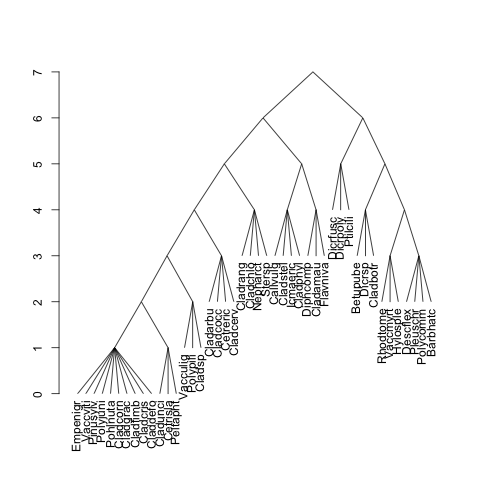
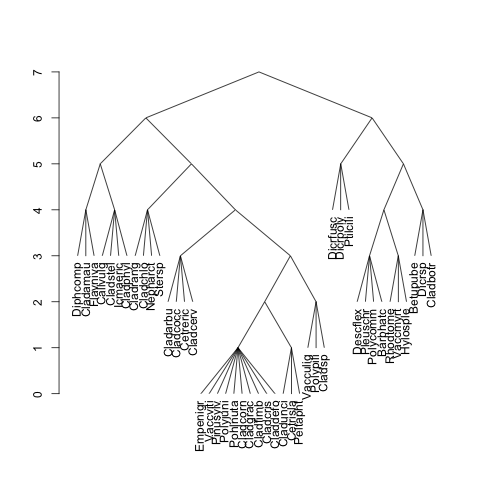
real(4)/real(8) conversion fix 26e28b9 changed ordering of data

diff --git a/README.md b/README.md
@@ -96,21 +96,21 @@ Use `summary` to see the classification:
 > summary(tw)
 1) eig=0.179:  -Cladrang5 +Pleuschr4 < 1
   2) eig=0.147:  +Callvulg2 +Pleuschr3 < 2
-    4) eig=0.163:  +Cladarbu3 < 1
-      8) N=4: 2 9 12 10 
-      9) eig=0.182:  -Cetrisla1 < 0
-        18) N=1: 4 
-        19) eig=0.169:  +Callvulg1 < 1
-          38) N=2: 7 5 
-          39) N=3: 18 6 3 
+    4) eig=0.163:  -Cladarbu3 < 0
+      8) eig=0.182:  -Cetrisla1 < 0
+        16) N=1: 4 
+        17) eig=0.169:  +Callvulg1 < 1
+          34) N=2: 7 5 
+          35) N=3: 18 6 3 
+      9) N=4: 2 9 12 10 
     5) N=3: 13 14 11 
-  3) eig=0.203:  +Cetreric1 +Cladarbu2 -Cladstel2 < 1
-    6) N=4: 27 19 28 21 
-    7) eig=0.161:  -Dicrsp2 < 0
-      14) N=2: 24 25 
-      15) eig=0.206:  +Callvulg1 < 1
-        30) N=1: 23 
-        31) N=4: 15 22 16 20
+  3) eig=0.203:  -Cetreric1 -Cladarbu2 +Cladstel2 < 0
+    6) eig=0.161:  +Dicrsp2 < 1
+      12) eig=0.206:  +Callvulg1 < 1
+        24) N=1: 23 
+        25) N=4: 15 22 16 20 
+      13) N=2: 24 25 
+    7) N=4: 27 19 28 21 
 ```
 `twinspan` is divisive: it splits data into two parts at each step, and these steps are
 described here. The splits are based on the first correspondence analysis axis of the
@@ -131,18 +131,18 @@ the names of the members (in this case the names are numeric).
 You can extract the classification of each quadrat with `cut`:
 ```r
 > cut(tw)
- [1] 39 31 14  6 30  6 31 31  6  5  5 31 14 38 38 39 39 18  8  8  8  8  5  6
+ [1] 35 25 13  7 24  7 25 25  7  5  5 25 13 34 34 35 35 16  9  9  9  9  5  7
 > cut(tw, level=2) # use classification at second level
- [1] 4 7 7 6 7 6 7 7 6 5 5 7 7 4 4 4 4 4 4 4 4 4 5 6
+ [1] 4 6 6 7 6 7 6 6 7 5 5 6 6 4 4 4 4 4 4 4 4 4 5 7
 ```
 You can also predict the membership of quadrats based on the indicator pseudospecies
 and threshold score. This can also be done with argument `newdata` using data set that
 contains same species, but is not used in developing the classification.
 ```r
 > predict(tw, level=2)
- [1] 4 7 7 6 7 6 7 7 6 5 5 7 7 4 4 4 4 4 4 4 4 4 5 4
+ [1] 4 6 6 7 6 7 6 6 7 5 5 6 6 4 4 4 4 4 4 4 4 4 5 4
 ```
-Please note that the last quadrat was classified to second-level class 6, but it is
+Please note that the last quadrat was classified to second-level class 7, but it is
 predicted to be in class 4. This can happen because TWINSPAN classification is based
 on the polished ordination, and the indicator pseudospecies only *indicate* this
 division. The analysis tries to make the concordance as good as possible, but it
@@ -156,25 +156,25 @@ classification it also classifies the species (not the pseudospecies):
 > summary(tw, "species")
 1) eig=0.543
   2) eig=0.41
-    4) eig=0.122
-      8) eig=0.068
-        16) eig=0.049
-          32) eig=0.048
-            64) N=10: Empenigr Vaccviti Pinusylv Polyjuni Pohlnuta Cladcorn Cladgrac Cladfimb Cladcris Claddefo 
-            65) N=3: Cladunci Cetrisla Peltapht 
-          33) N=3: Vacculig Polypili Cladsp 
-        17) N=4: Cladarbu Cladcocc Cetreric Cladcerv 
-      9) N=4: Cladrang Cladchlo Nepharct Stersp 
-    5) eig=0.272
-      10) N=4: Callvulg Cladstel Icmaeric Cladphyl 
-      11) N=3: Diphcomp Cladamau Flavniva 
+    4) eig=0.272
+      8) N=3: Diphcomp Cladamau Flavniva 
+      9) N=4: Callvulg Cladstel Icmaeric Cladphyl 
+    5) eig=0.122
+      10) N=4: Cladrang Cladchlo Nepharct Stersp 
+      11) eig=0.068
+        22) N=4: Cladarbu Cladcocc Cetreric Cladcerv 
+        23) eig=0.049
+          46) eig=0.048
+            92) N=10: Empenigr Vaccviti Pinusylv Polyjuni Pohlnuta Cladcorn Cladgrac Cladfimb Cladcris Claddefo 
+            93) N=3: Cladunci Cetrisla Peltapht 
+          47) N=3: Vacculig Polypili Cladsp 
   3) eig=0.405
     6) N=3: Dicrfusc Dicrpoly Ptilcili 
     7) eig=0.231
-      14) N=3: Betupube Dicrsp Cladbotr 
-      15) eig=0.254
-        30) N=3: Rhodtome Vaccmyrt Hylosple 
-        31) N=4: Descflex Pleuschr Polycomm Barbhatc 
+      14) eig=0.254
+        28) N=4: Descflex Pleuschr Polycomm Barbhatc 
+        29) N=3: Rhodtome Vaccmyrt Hylosple 
+      15) N=3: Betupube Dicrsp Cladbotr 
 ```
 Species classification is based on correspondence analysis where species are weighted by their
 indicator potential for the quadrat classification. You can extract the classification vector
@@ -183,59 +183,58 @@ with `cut(tw, "species")`.
 The data can be tabulated with:
 ```r
 > twintable(tw)
-                                         
                  000000000000011111111111
-                 000000000011100001111111
-                 0000111111       0011111
-                     011111         01111
-                      00111              
+                 000000000011100000001111
+                 0000001111   0000011    
+                 011111       01111      
+                  00111                  
                                          
-                   11   1  11121222221212
-                 292047586334179814535260
- 000000 Empenigr 324413143213143141341333
- 000000 Vaccviti 354413244233444354454424
- 000000 Pinusylv 11111-111-111-1111111111
- 000000 Polyjuni 11-111111-111-1111321-11
- 000000 Pohlnuta -11111-1-111111111-11111
- 000000 Cladcorn 111111111111111111111111
- 000000 Cladgrac 111-11111111111111111111
- 000000 Cladfimb 111111111111-1111-111111
- 000000 Cladcris 111111111111111111111111
- 000000 Claddefo 111111111111-11111111111
- 000001 Cladunci 111111112115211113112212
- 000001 Cetrisla -1111-----111--1111-1-1-
- 000001 Peltapht -------1--1-11----11----
- 00001  Vacculig ----13-1-1---1-1--1--2-1
- 00001  Polypili ------111---1-1----11--1
- 00001    Cladsp -1--1--11-1--1----1--111
- 0001   Cladarbu 112145455354313112334333
- 0001   Cladcocc -1-1111111111-11--111111
- 0001   Cetreric -1-111111111-----11-1111
- 0001   Cladcerv 1---1-------------1-----
- 001    Cladrang 524355555551532123233244
- 001    Cladchlo 11-1-1--111---1-11-1-1--
- 001    Nepharct -----1-1-1--------2----1
- 001      Stersp ---1114111111-11-1111-1-
- 010    Callvulg 1-112--111522----1--1221
- 010    Cladstel 555551124541525-41-11111
- 010    Icmaeric -----11----1----------1-
- 010    Cladphyl -1-1-------11-----------
- 011    Diphcomp -1---1-2-11-------1-----
- 011    Cladamau ------11-1--------------
- 011    Flavniva -1-1411111----1----1----
- 10     Dicrfusc 11111111112412111-424551
- 10     Dicrpoly -1-1-11-----1-1121-11-11
- 10     Ptilcili 11-----1111-11114111111-
- 110    Betupube ----------------1-1--1--
- 110      Dicrsp --1-------1----1154-1111
- 110    Cladbotr ----------1--11111-1---1
- 1110   Rhodtome ----------1--2-12----1--
- 1110   Vaccmyrt -1--------11-3244---132-
- 1110   Hylosple -------------3-3--1----1
- 1111   Descflex ----11-------2111-1--1--
- 1111   Pleuschr 123111121133455525545544
- 1111   Polycomm -----------1-11-1-1-----
- 1111   Barbhatc ----------1--11-2--1----
+                    1    1111121212222122
+                 475863292034135260457981
+ 000    Diphcomp -1-2-1-1--1--------1----
+ 000    Cladamau --11-1------------------
+ 000    Flavniva 411111-1-1---1-------1--
+ 001    Callvulg 2--1111-11522-12211-----
+ 001    Cladstel 5112455555415111111-25-4
+ 001    Icmaeric -11--------1----1-------
+ 001    Cladphyl -------1-1-11-----------
+ 010    Cladrang 555555524351533244323212
+ 010    Cladchlo -1--1111-11--1-1--1--1-1
+ 010    Nepharct -1-1-1-----------1-2----
+ 010      Stersp 114111---111111-1-11-11-
+ 0110   Cladarbu 454553112154334333231311
+ 0110   Cladcocc 111111-1-111111111-1-11-
+ 0110   Cetreric 111111-1-111--111111----
+ 0110   Cladcerv 1-----1------------1----
+ 011100 Empenigr 131432324413141333134314
+ 011100 Vaccviti 132442354433454424444435
+ 011100 Pinusylv 1-111-11111111111111-111
+ 011100 Polyjuni 11111-11-111121-1113-111
+ 011100 Pohlnuta 11-1-1-111111111111-1111
+ 011100 Cladcorn 111111111111111111111111
+ 011100 Cladgrac 111111111-11111111111111
+ 011100 Cladfimb 111111111111-11111-11111
+ 011100 Cladcris 111111111111111111111111
+ 011100 Claddefo 111111111111-11111111111
+ 011101 Cladunci 111121111115212212311111
+ 011101 Cetrisla 1------111111-1-1-11--11
+ 011101 Peltapht ---1------1-11-----11---
+ 01111  Vacculig 13-1-1---------2-1-11-1-
+ 01111  Polypili --111-------111--1---1--
+ 01111    Cladsp 1--11--1--1----111-11---
+ 10     Dicrfusc 111111111124124551-42111
+ 10     Dicrpoly -11----1-1--111-111--112
+ 10     Ptilcili ---11111--1-11111-111114
+ 1100   Descflex 11-------------1---12111
+ 1100   Pleuschr 111211123133445544555552
+ 1100   Polycomm -----------1-------111-1
+ 1100   Barbhatc ----------1--1------11-2
+ 1101   Rhodtome ----------1----1----2-12
+ 1101   Vaccmyrt -------1--11--132---3244
+ 1101   Hylosple -----------------1-13-3-
+ 111    Betupube ---------------1---1---1
+ 111      Dicrsp --------1-1---111154--11
+ 111    Cladbotr ----------1--1---11-1111
   sites species 
      24      44 
 ```
@@ -246,7 +245,7 @@ of the analysis.
 The `twinspan` classification can be extracted as a standard **R** `dendrogram`. The final
 units contain many branches (species, quadrats), and it is best to use fan-like trees:
 ```r
-plot(as.dendrogram(tw, "species"), type = "triangle")
+> plot(as.dendrogram(tw, "species"), type = "triangle")
 ```
 ![](twintree.png)
 
